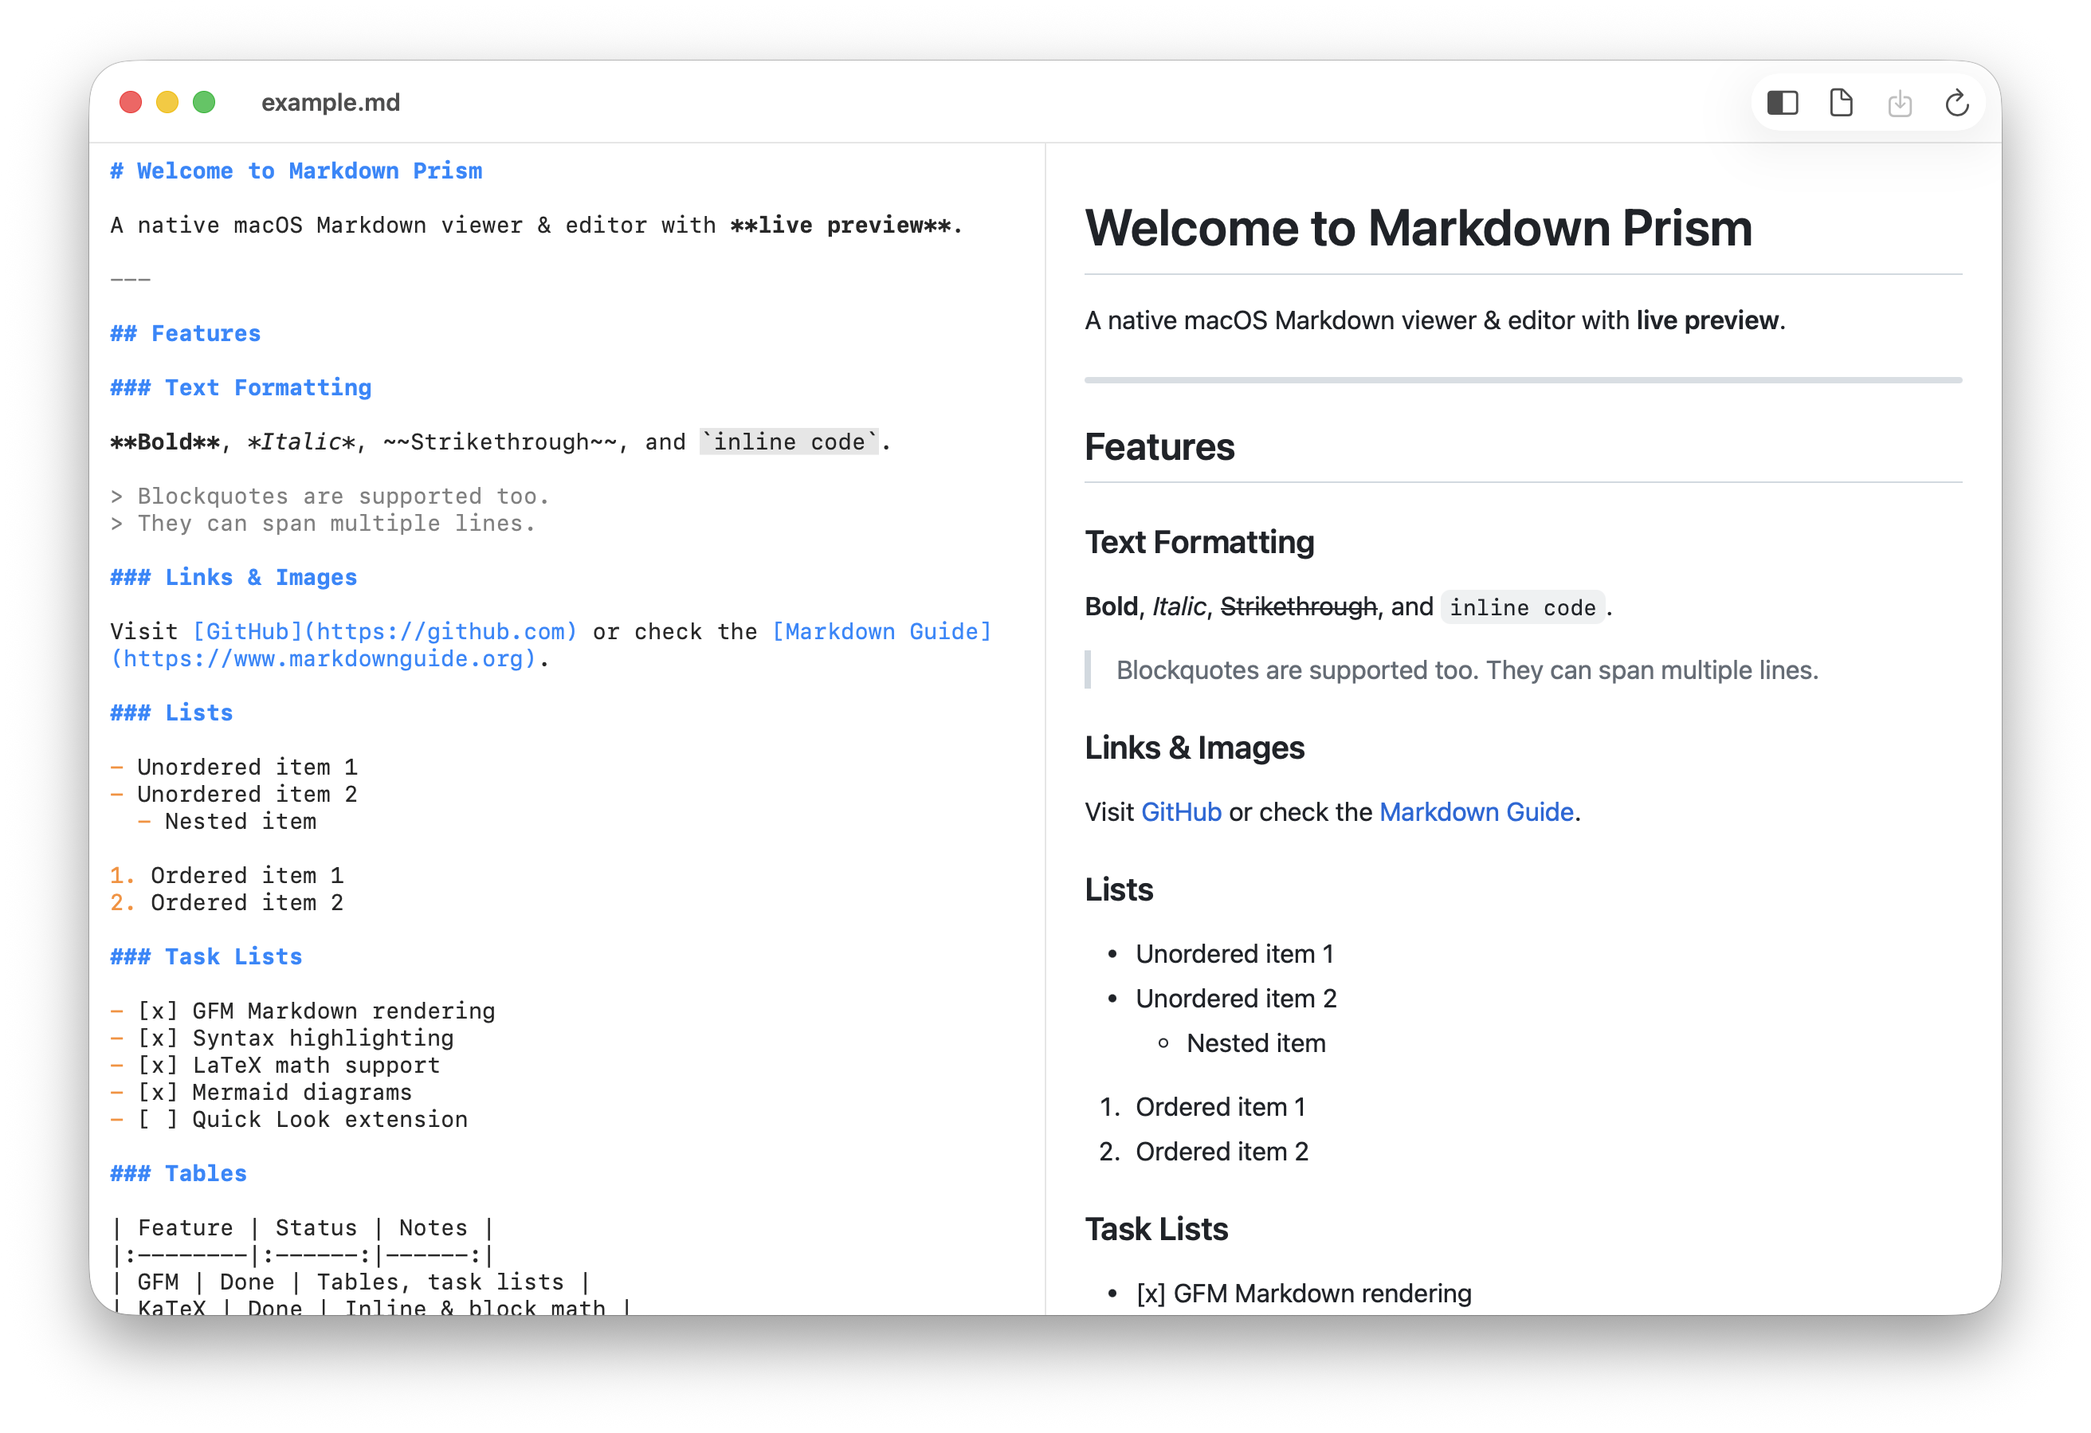
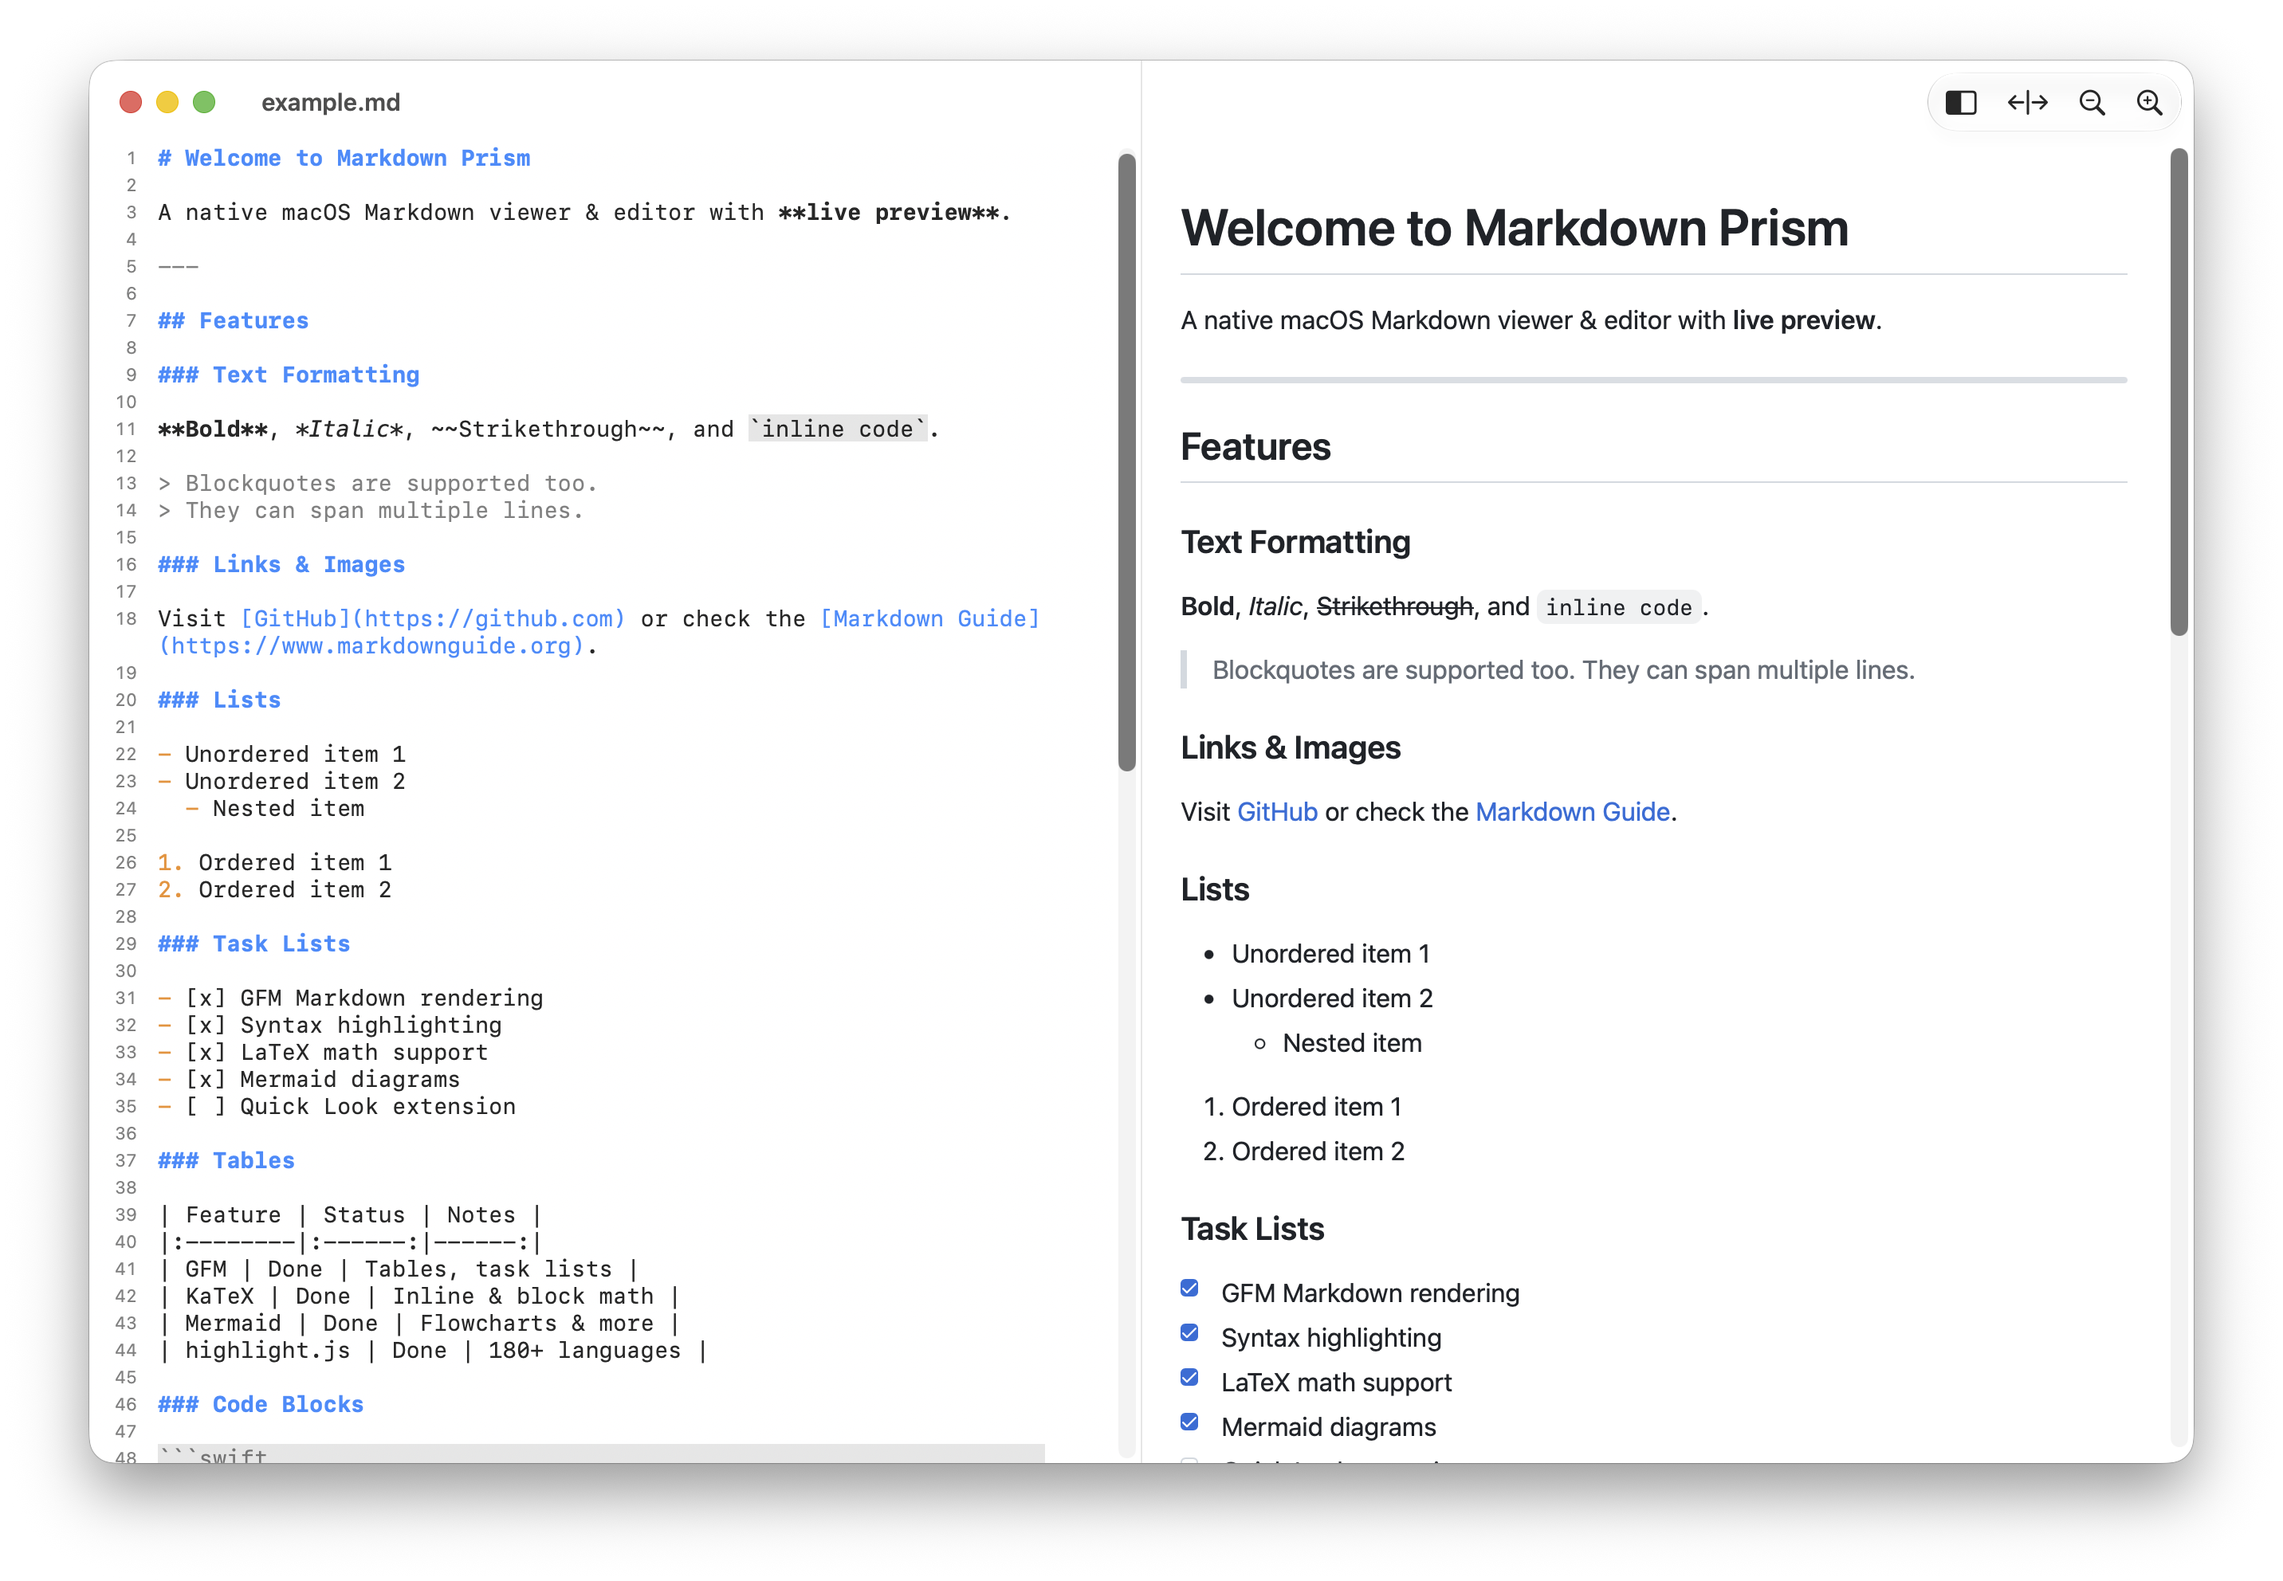
Docs: refresh the README and its screenshots
The screenshots were taken in February and showed an app that no longer
exists: no line numbers, and a toolbar with Open, Save and Refresh
buttons that the document-based rewrite replaced. Recapture the hero and
editor shots — and the social card the site serves — from 0.6.0.

The prose had drifted too. State the macOS requirement where people
install rather than only under Build from Source, list find and replace,
encoding preservation and the keyboard shortcuts (checked against the
declarations in the source), fold the v0.4.7 cask troubleshooting into a
collapsed block now that the bug behind it is fixed, and give the build
command the flag a stranger needs to compile without a signing identity.

diff --git a/README.md b/README.md
@@ -9,16 +9,21 @@ A native macOS Markdown viewer & editor with live preview, Quick Look support, a
 ## Features
 
 - **Live Preview** — Split-pane editor with real-time rendered preview
-- **Tabs & Windows** — Open as many documents as you like, in windows or native tabs
 - **Scroll Sync** — Editor and preview follow each other, both ways
 - **Line Numbers** — Gutter alongside the editor
+- **Tabs & Windows** — A document per window, merged into tabs when you want
 - **GFM Support** — Tables, task lists, strikethrough, autolinks
 - **Syntax Highlighting** — 180+ languages via highlight.js
 - **LaTeX Math** — Inline (`$...$`) and block (`$$...$$`) math with KaTeX
 - **Mermaid Diagrams** — Flowcharts, sequence diagrams, and more
+- **Find & Replace** — Across both panes, with regular expressions
 - **Quick Look** — Preview `.md` files in Finder with spacebar
 - **File Watching** — Auto-refreshes when the file changes on disk
+- **Encoding Safe** — UTF-8, UTF-16/32 and Latin-1 files are saved as they were read
 - **Dark Mode** — Follows system appearance
+
+Everything renders offline: the parser, highlighter, math and diagram libraries
+are all bundled in the app.
 
 ## Screenshots
 
@@ -32,40 +37,46 @@ A native macOS Markdown viewer & editor with live preview, Quick Look support, a
 
 ## Install
 
+Requires macOS 14 (Sonoma) or later.
+
 ### Homebrew
 
 ```bash
-brew install hulryung/tap/markdown-prism
+brew install --cask hulryung/tap/markdown-prism
 ```
 
 ### Manual
 
 Download the latest `MarkdownPrism-x.x.x.dmg` from [Releases](../../releases), open it, and drag **Markdown Prism** to Applications.
 
-The app is signed and notarized with Apple Developer ID.
+The app and the disk image are both signed with an Apple Developer ID and
+notarized, so Gatekeeper lets them through without asking Apple first.
 
-### Troubleshooting: Homebrew Install/Upgrade Failure
+<details>
+<summary>Homebrew install fails with "the App source ... is not there"</summary>
 
-If `brew install` or `brew upgrade` fails with:
-
-```
-Error: It seems the App source '.../Markdown Prism.app' is not there.
-```
-
-This is a name mismatch issue between the cask definition and the DMG. To fix:
+A cask naming bug fixed in v0.4.7 can leave older installs in a broken state.
+Clear it and reinstall:
 
 ```bash
-# 1. Remove the broken state
 brew uninstall --cask markdown-prism --force
-
-# 2. Re-fetch the latest cask definition
 brew tap hulryung/tap --force
-
-# 3. Reinstall
 brew install --cask hulryung/tap/markdown-prism
 ```
 
-If the issue persists, install manually from the [Releases](../../releases) page.
+</details>
+
+## Keyboard Shortcuts
+
+Alongside the standard document shortcuts (`Cmd+N`, `Cmd+O`, `Cmd+S`, `Cmd+W`):
+
+| Shortcut | Action |
+|----------|--------|
+| `Cmd+Shift+E` | Show/hide the editor pane |
+| `Cmd+F` | Find |
+| `Cmd+G` / `Cmd+Shift+G` | Find next / previous |
+| `Cmd+Option+F` | Find & Replace |
+| `Cmd+=` / `Cmd+-` / `Cmd+0` | Zoom in / out / actual size |
 
 ## Build from Source
 
@@ -75,28 +86,36 @@ Requires macOS 14+ and Xcode 15+.
 # Install xcodegen (if needed)
 brew install xcodegen
 
-# Generate Xcode project and build
+# Generate the Xcode project and build, Quick Look extension included
 xcodegen generate
-xcodebuild -scheme MarkdownPrism -configuration Release build
+xcodebuild -scheme MarkdownPrism -configuration Release CODE_SIGNING_ALLOWED=NO build
 ```
 
-For SPM-only build (no Quick Look extension):
+SwiftPM builds and tests the app target, but cannot build app extensions, so it
+leaves out Quick Look:
 
 ```bash
 swift build
-swift run
+swift test
 ```
+
+Releases are cut with `./scripts/build-dmg.sh`, which signs, notarizes, staples
+and packages the DMG. `project.yml` holds the version; both `Info.plist` files
+are generated from it.
 
 ## Tech Stack
 
 | Component | Technology |
 |-----------|-----------|
 | App Shell | Swift / SwiftUI |
+| Document Model | DocumentGroup + FileDocument |
+| Editor | NSTextView with regex-based highlighting |
 | Preview Rendering | WKWebView + HTML/JS |
 | Markdown Parser | markdown-it |
 | Code Highlighting | highlight.js |
 | Math Rendering | KaTeX |
 | Diagrams | Mermaid.js |
+| Sanitiser | DOMPurify |
 | Quick Look | QLPreviewingController + WKWebView |
 
 ## License
